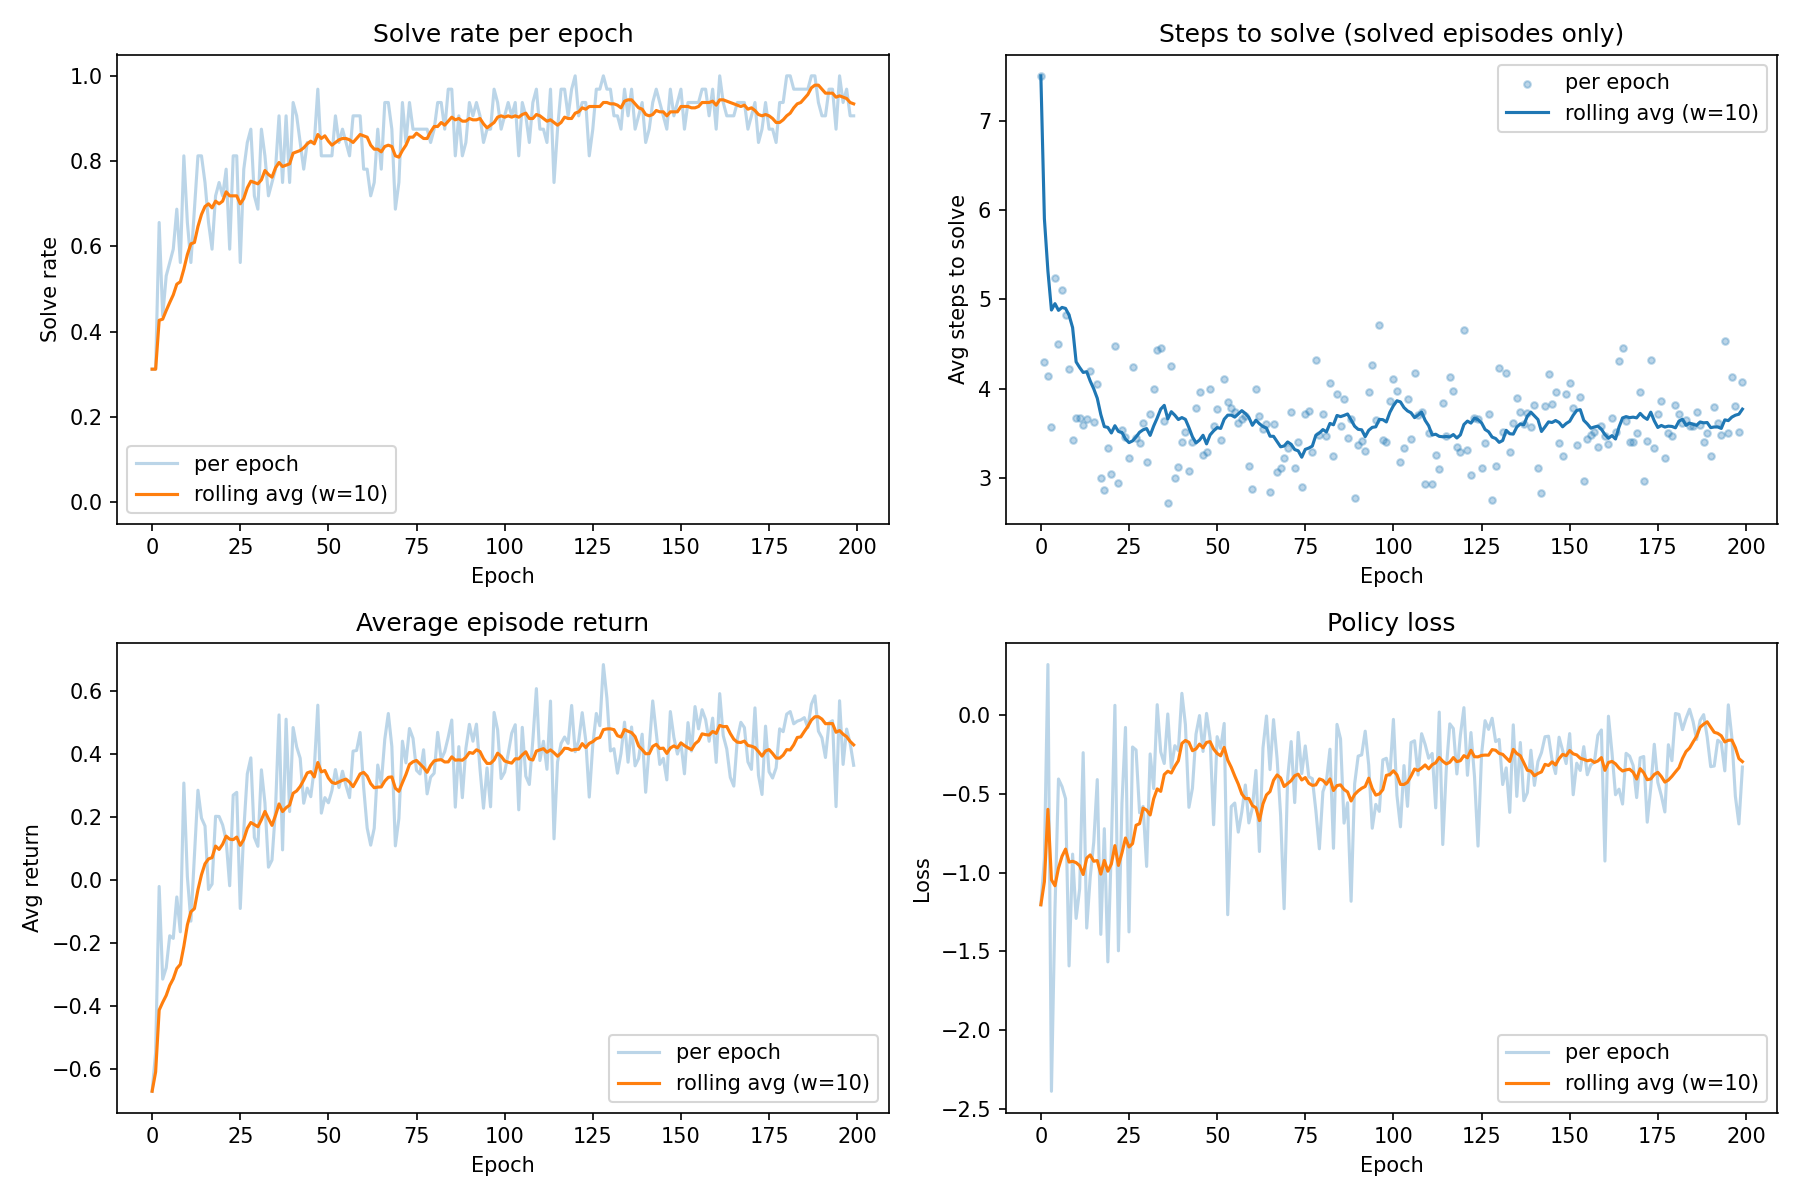
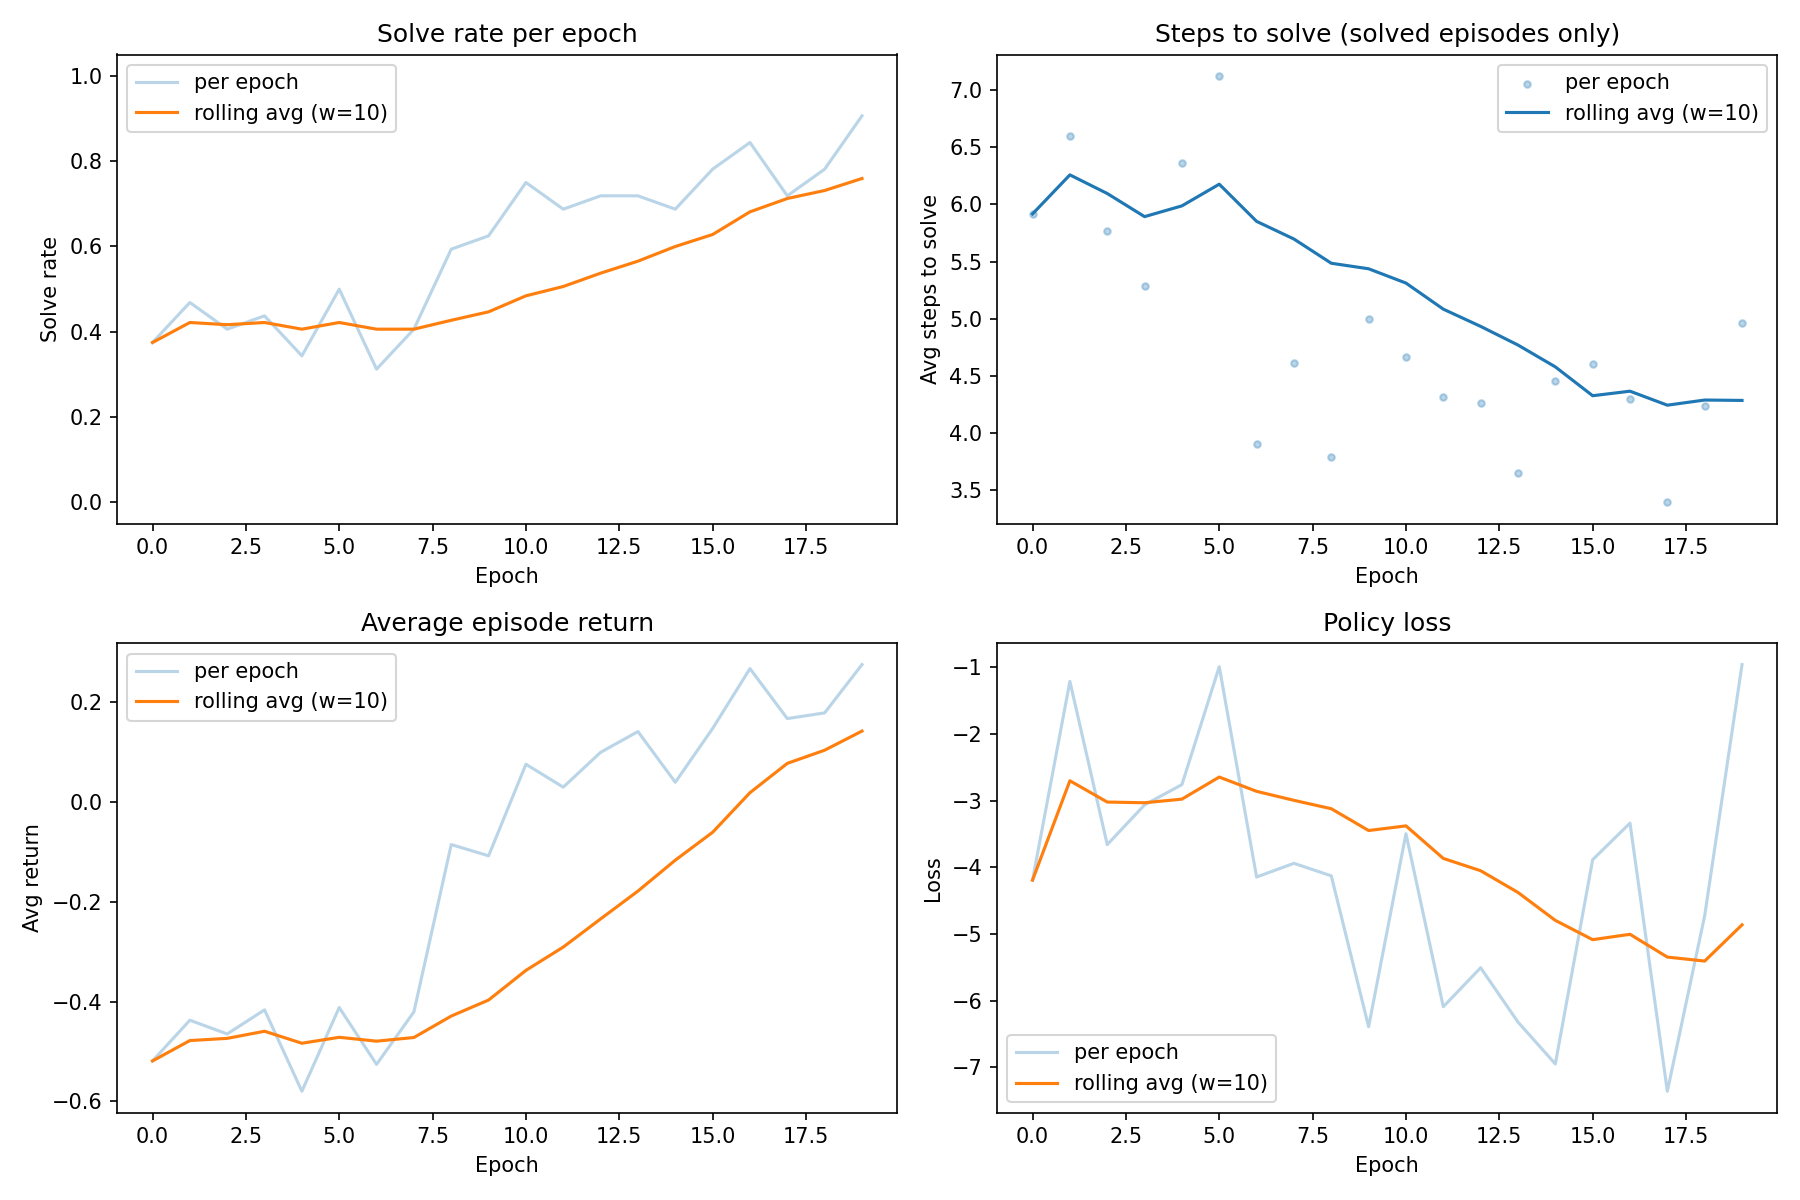
added curriculum learning

diff --git a/REINFORCE.py b/REINFORCE.py
@@ -1,4 +1,4 @@
-import random
+import os
 import torch
 from pantograph.server import Server
 
@@ -11,18 +11,19 @@ from plotting import plot_training_curves
 # NOTE: Replace REPO_URL with the path to your local clone of
 # https://github.com/nelsmartin/lean-stuff
 REPO_URL = "/Users/nelsmartin/Lean/lean-stuff"
-COMMIT = "2f0e298bc4891070b6f02acbd040a1b82936b521"
-FILE_PATH = "LeanStuff/SimpleTheorems.lean"
-NUM_EPOCHS = 200
-BATCH_SIZE = 32
+COMMIT = "2e162026d5b4bc822f8d6a961369c56832df252d"
+FILE_PATH = "LeanStuff/Curriculum.lean"
+NUM_EPOCHS = int(os.environ.get("NUM_EPOCHS", 20))
+BATCH_SIZE = int(os.environ.get("BATCH_SIZE", 32))
 GAMMA = 0.9
 LR = 1e-3
-MAX_STEPS = 10
+MAX_STEPS = 15
 
 # --- Setup ---
 server = Server(
     project_path=REPO_URL,
-    imports=["Init", "LeanStuff.OracleTactic", "LeanStuff.SimpleTheorems", "LeanStuff.CurriculumTest"],
+    imports=["Init", "LeanStuff.OracleTactic", "LeanStuff.SimpleTheorems",
+             "LeanStuff.CurriculumTest", "LeanStuff.Curriculum"],
 )
 
 oracle_tactic = OracleTactic(
@@ -30,25 +31,37 @@ oracle_tactic = OracleTactic(
     hyp=["induct_rename", "apply", "cases"],
     var=["intro"],
     func=["Nat.succ"],
+    rw=[],  # enable forward `rw [..]` moves (lemmas filled in per-episode)
 )
 
 policy = PolicyNetwork()
 optimizer = torch.optim.Adam(policy.parameters(), lr=LR)
 
 theorems = get_theorems(REPO_URL, COMMIT, FILE_PATH)
-goals = [theorem_to_goal(server, theorem) for theorem in theorems]
+# Keep theorem identity (full_name) alongside its goal so we can record which
+# theorems the agent has actually proved during the run.
+problems = [(theorem.full_name, theorem_to_goal(server, theorem)) for theorem in theorems]
 
 # --- Build vocabulary ---
 vocab = Vocab()
-for goal in goals:
+for _, goal in problems:
     for token in tokenize(goal):
         vocab.add_token(token)
 for tactic in oracle_tactic.get_all_tactics():
     for token in tokenize(tactic):
         vocab.add_token(token)
+# Seed theorem names so dynamic `apply <name>` moves aren't all <UNK>.
+for name, _ in problems:
+    for token in tokenize(name):
+        vocab.add_token(token)
+# Seed literal tokens used by dynamic apply/exact/rw moves.
+for token in ["apply", "exact", "rw", "[", "]"]:
+    vocab.add_token(token)
 
 # --- Training loop ---
 baseline = 0.0
+proved = set()  # full_names of theorems the agent has closed so far (curriculum)
+episode_idx = 0  # walks `problems` in order, wrapping across epochs
 epoch_solve_rates = []
 epoch_avg_steps = []
 epoch_avg_returns = []
@@ -61,11 +74,20 @@ for epoch in range(NUM_EPOCHS):
     epoch_returns = []
 
     for _ in range(BATCH_SIZE):
-        goal = random.choice(goals)
+        name, goal = problems[episode_idx % len(problems)]
+        episode_idx += 1
         state = server.goal_start(goal)
         rewards = []
         log_probs = []
         num_steps = 0
+
+        # Offer every proved theorem as an `apply`/`rw` lemma, except the current one
+        # (prevents trivially closing a goal with `exact <itself>`).
+        available = sorted(proved - {name})
+        oracle_tactic.apply = available
+        oracle_tactic.rw = available
+        lemma_set = set(available)
+        used_lemmas = []  # lemma moves the agent actually took this episode
 
         done = False
         while not done:
@@ -84,6 +106,20 @@ for epoch in range(NUM_EPOCHS):
             log_probs.append(dist.log_prob(action_idx))
 
             action = moves[int(action_idx.item())]
+
+            # Detect use of a previously-proved theorem as a lemma, via either
+            # `apply/exact <thm>` or `rw [<thm>]`. (`rw [<hyp>]`, e.g. the induction
+            # hypothesis, is not counted as cross-theorem reuse.)
+            parts = action.split()
+            used = None
+            if len(parts) == 2 and parts[0] in ("apply", "exact") and parts[1] in lemma_set:
+                used = parts[1]
+            elif action.startswith("rw [") and action.endswith("]") and action[4:-1] in lemma_set:
+                used = action[4:-1]
+            if used is not None:
+                used_lemmas.append(action)
+                print(f"    [{name}] step {num_steps}: used lemma `{action}`")
+
             state, reward, done = step(server, state, action)
             rewards.append(reward)
             num_steps += 1
@@ -91,6 +127,13 @@ for epoch in range(NUM_EPOCHS):
             if done and reward == 1:
                 epoch_solves += 1
                 epoch_steps.append(num_steps)
+                is_new = name not in proved
+                proved.add(name)
+                if is_new:
+                    print(f"  + first proof of {name} "
+                          f"(proved set now: {len(proved)})")
+                if used_lemmas:
+                    print(f"  >> SOLVED {name} using lemma(s): {used_lemmas}")
 
         # Compute discounted returns
         returns = []

diff --git a/lean_env.py b/lean_env.py
@@ -1,14 +1,22 @@
+import ast
 import json
 from pantograph.server import Server
 from lean_dojo_v2.database import DynamicDatabase
 
 
 class OracleTactic:
-    def __init__(self, close=None, hyp=None, var=None, func=None):
+    def __init__(self, close=None, hyp=None, var=None, func=None, apply=None, rw=None):
         self.close = close
         self.hyp = hyp
         self.var = var
         self.func = func
+        # Names of previously-proved theorems to offer as `apply`/`exact` moves.
+        # Updated dynamically during training as the agent closes goals.
+        self.apply = apply or []
+        # Names of previously-proved theorems to offer as forward `rw [..]` moves.
+        # `None` disables the rw feature entirely; `[]` enables it (so the induction
+        # hypothesis can still be rewritten) with no lemmas yet.
+        self.rw = rw
 
     def to_string(self):
         config = {}
@@ -16,18 +24,20 @@ class OracleTactic:
         if self.hyp:   config["hyp"]   = self.hyp
         if self.var:   config["var"]   = self.var
         if self.func:  config["func"]  = self.func
+        if self.apply: config["apply"] = self.apply
+        if self.rw is not None: config["rw"] = self.rw
         inner = json.dumps(config).replace('"', '\\"')
         return f'so "{inner}"'
 
     def get_all_tactics(self):
         tactics = []
-        for group in [self.close, self.hyp, self.var, self.func]:
+        for group in [self.close, self.hyp, self.var, self.func, self.apply, self.rw]:
             if group:
                 tactics.extend(group)
         return tactics
 
 
-def get_theorems(repo_url, commit, file_path):
+def get_theorems(repo_url, commit, file_path=None):
     database = DynamicDatabase()
     repo = database.trace_repository(
         url=repo_url,
@@ -36,7 +46,17 @@ def get_theorems(repo_url, commit, file_path):
     )
     if repo is None:
         raise ValueError("Repository not found")
-    return repo.get_all_theorems
+    theorems = list(repo.get_all_theorems)
+    if file_path is not None:
+        theorems = [t for t in theorems if str(t.file_path) == file_path]
+    # Sort by source position so an in-order curriculum is walked simple -> complex.
+    def source_pos(theorem):
+        try:
+            return ast.literal_eval(str(theorem.start))
+        except (ValueError, SyntaxError):
+            return (0, 0)
+    theorems.sort(key=source_pos)
+    return theorems
 
 
 def theorem_to_goal(server, theorem):

diff --git a/README.md b/README.md
@@ -1,18 +1,44 @@
 # RL-Lean
 
-Reinforcement learning for automated Lean 4 theorem proving. A policy network learns to select proof tactics by interacting with the Lean prover through [PyPantograph](https://github.com/stanford-centaur/PyPantograph), using the REINFORCE algorithm.
+Reinforcement learning for automated Lean 4 theorem proving with **curriculum learning**. A policy network learns to select proof tactics by interacting with the Lean prover through [PyPantograph](https://github.com/stanford-centaur/PyPantograph), using the REINFORCE algorithm. Theorems the agent proves are fed back as usable lemmas, so it can build up a library of results and reach goals it could not prove from scratch.
 
 ## How it works
 
 An **oracle tactic** (implemented on the Lean side) enumerates candidate proof steps for a given goal state. The RL agent learns to pick the right tactic at each step to close the proof. The training loop:
 
-1. Samples a theorem from a Lean repository
-2. Queries the oracle for available moves at each proof state
+1. Walks the theorems of a Lean file **in source order** (simple → complex), wrapping across epochs
+2. Queries the oracle for available moves at each proof state — including `apply`/`rw` of theorems **already proved earlier in this run**
 3. Uses a policy network to select a move
 4. Receives reward (+1 for closing the proof, -0.1 per step, -1 for dead ends)
 5. Updates the policy with REINFORCE + a running baseline
+6. Records each solved theorem so it becomes an available lemma for later, harder goals
 
 ![Training curves](training_curves.png)
+
+### Curriculum learning
+
+The training script keeps a `proved` set of theorems the agent has closed so far. Before each episode, every proved theorem (except the current goal, to prevent trivially closing it with `exact <itself>`) is offered to the oracle as both an `apply <thm>` and a forward `rw [<thm>]` move. Easy theorems fall first and become lemmas; harder theorems that depend on them then become reachable.
+
+This is exercised by `LeanStuff/Curriculum.lean` in the Lean repo, an ordered Peano-arithmetic curriculum culminating in commutativity of addition:
+
+```
+add_zero : n + 0 = n                  -- definitional (`constructor`)
+add_succ : n + succ m = succ (n + m)  -- definitional (`constructor`)
+zero_add : 0 + n = n                  -- induction
+succ_add : succ m + n = succ (m + n)  -- induction
+add_comm : m + n = n + m              -- CAPSTONE: rewrites all four lemmas + the IH
+```
+
+`add_comm` is *unreachable* with the primitive tactics alone — its inductive step must rewrite subterms — so the agent can only solve it by composing the lemmas it proved earlier. The run logs the climb:
+
+```
++ first proof of Peano.add_zero (proved set now: 1)
++ first proof of Peano.add_succ (proved set now: 2)
++ first proof of Peano.zero_add (proved set now: 3)
++ first proof of Peano.succ_add (proved set now: 4)
++ first proof of Peano.add_comm (proved set now: 5)
+>> SOLVED Peano.add_comm using lemma(s): ['rw [Peano.succ_add]', 'rw [Peano.add_zero]', 'rw [Peano.zero_add]', 'rw [Peano.add_succ]']
+```
 
 ## Project structure
 
@@ -26,11 +52,17 @@ An **oracle tactic** (implemented on the Lean side) enumerates candidate proof s
 
 ### Key definitions
 
-**`OracleTactic`** (`lean_env.py`) — Wraps the Lean-side `so` tactic. Configured with four tactic groups:
+**`OracleTactic`** (`lean_env.py`) — Wraps the Lean-side `so` tactic. Configured with tactic groups:
 - `close`: tactics that close a goal (e.g. `constructor`)
 - `hyp`: tactics that operate on hypotheses (e.g. `induct_rename`, `apply`, `cases`)
 - `var`: tactics that introduce variables (e.g. `intro`)
 - `func`: function/constructor names to try (e.g. `Nat.succ`)
+- `apply`: previously-proved theorems to try as `apply <thm>` / `exact <thm>` (filled in dynamically each episode)
+- `rw`: previously-proved theorems to try as forward `rw [<thm>]`; also offers `rw [<hyp>]` (e.g. the induction hypothesis). Set to `[]` to enable the feature, `None` to disable it
+
+The oracle only returns moves that actually apply to the current goal — it tries each candidate and keeps the ones that succeed.
+
+**`get_theorems`** (`lean_env.py`) — Traces the Lean repository and returns its theorems, optionally filtered to a single `file_path` and sorted by source position (so the curriculum is walked simple → complex).
 
 **`get_moves`** (`lean_env.py`) — Sends the oracle tactic to the Lean server and parses the suggested next moves from the response messages.
 
@@ -61,10 +93,12 @@ uv sync
 
 ### 3. Configure and run
 
-Edit `REPO_URL` in `REINFORCE.py` to point to your local clone of `lean-stuff`:
+In `REINFORCE.py`, point `REPO_URL` at your local clone of `lean-stuff`, and make sure `COMMIT` / `FILE_PATH` select the theorem file you want to train on (defaults to the `Curriculum.lean` curriculum):
 
 ```python
-REPO_URL = "/path/to/your/lean-stuff"
+REPO_URL  = "/path/to/your/lean-stuff"
+COMMIT    = "..."                       # a commit of lean-stuff to trace
+FILE_PATH = "LeanStuff/Curriculum.lean" # which file's theorems to use
 ```
 
 Then run:
@@ -73,12 +107,21 @@ Then run:
 uv run python REINFORCE.py
 ```
 
-Training curves are saved to `training_curves.png` on completion.
+`NUM_EPOCHS` and `BATCH_SIZE` can be overridden via environment variables for quick experiments, e.g.:
+
+```bash
+NUM_EPOCHS=40 uv run python REINFORCE.py
+```
+
+The run prints per-epoch metrics plus a log of first proofs and lemma reuse (see above), and saves training curves to `training_curves.png` on completion.
+
+> **Note:** the first run on a new `COMMIT` traces the repository (via `lean-dojo-v2`), which requires network access and is cached under `raid/data/`. Subsequent runs reuse the cache.
 
 ## Next steps
 
-- **Curriculum learning** — Allow the agent to use previously proved theorems as lemmas when proving new ones, enabling it to build up a library of results and tackle increasingly difficult goals.
 - **Alternative RL algorithms** — Support other policy gradient methods such as PPO or A2C, which may offer more stable training and better sample efficiency compared to vanilla REINFORCE.
+- **Sound "proved" gating** — Currently a theorem counts as proved when the goal closes (reward `+1`); it is not checked to be `sorry`-free. Verify the closed proof's axioms before adding it to the lemma library.
+- **Richer rewrites** — Reverse rewrites (`rw [← thm]`) and deeper curricula (e.g. multiplication: `mul_comm`, distributivity) to push the agent further.
 
 ## References
 